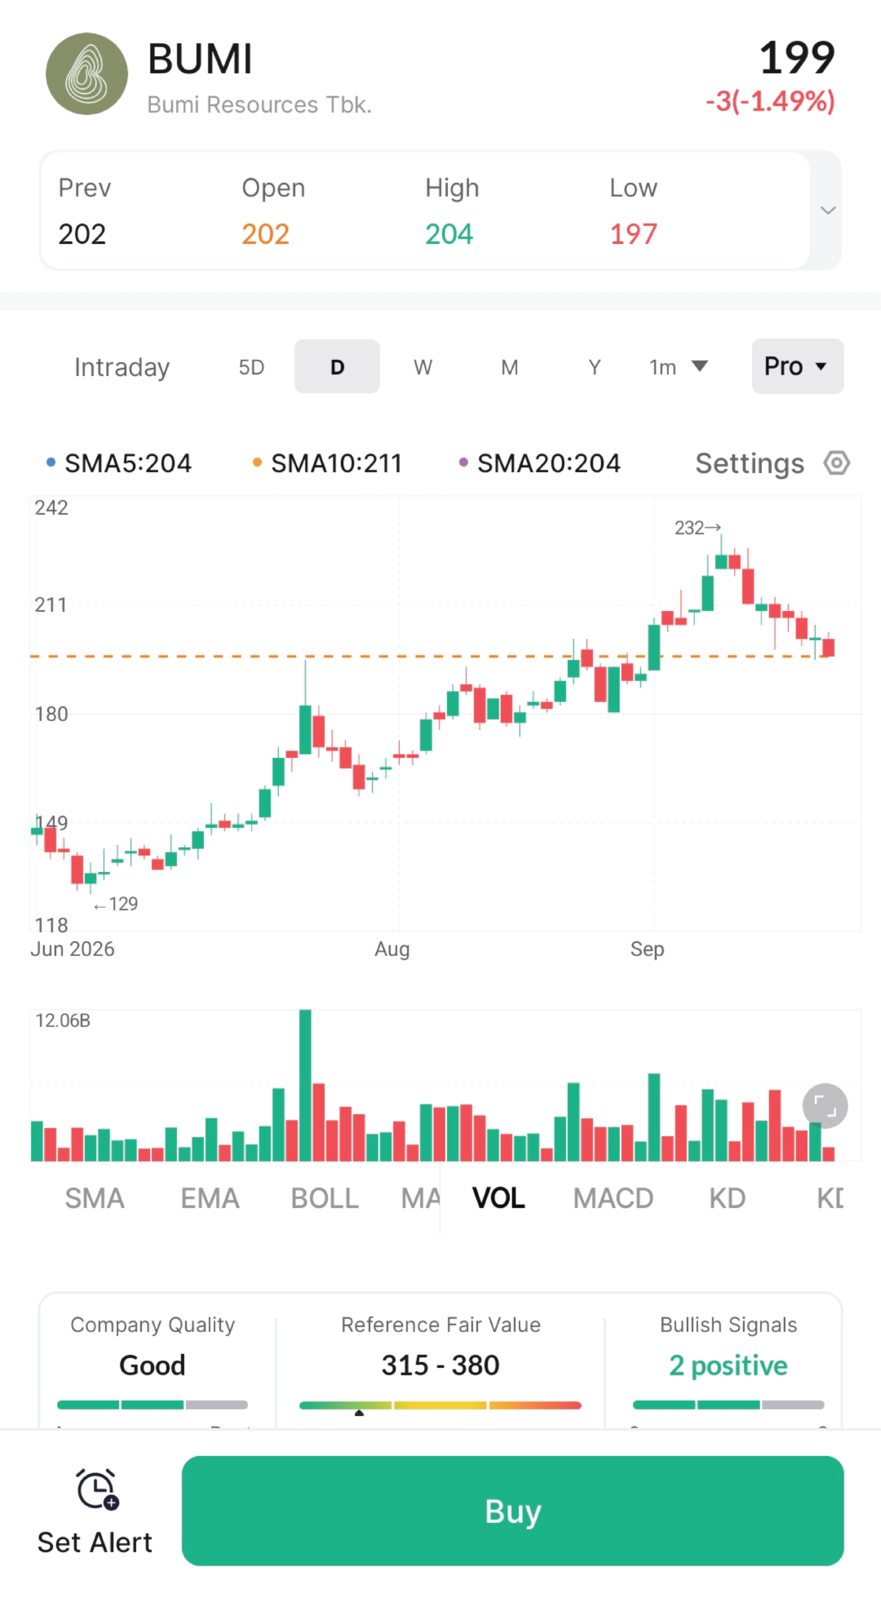
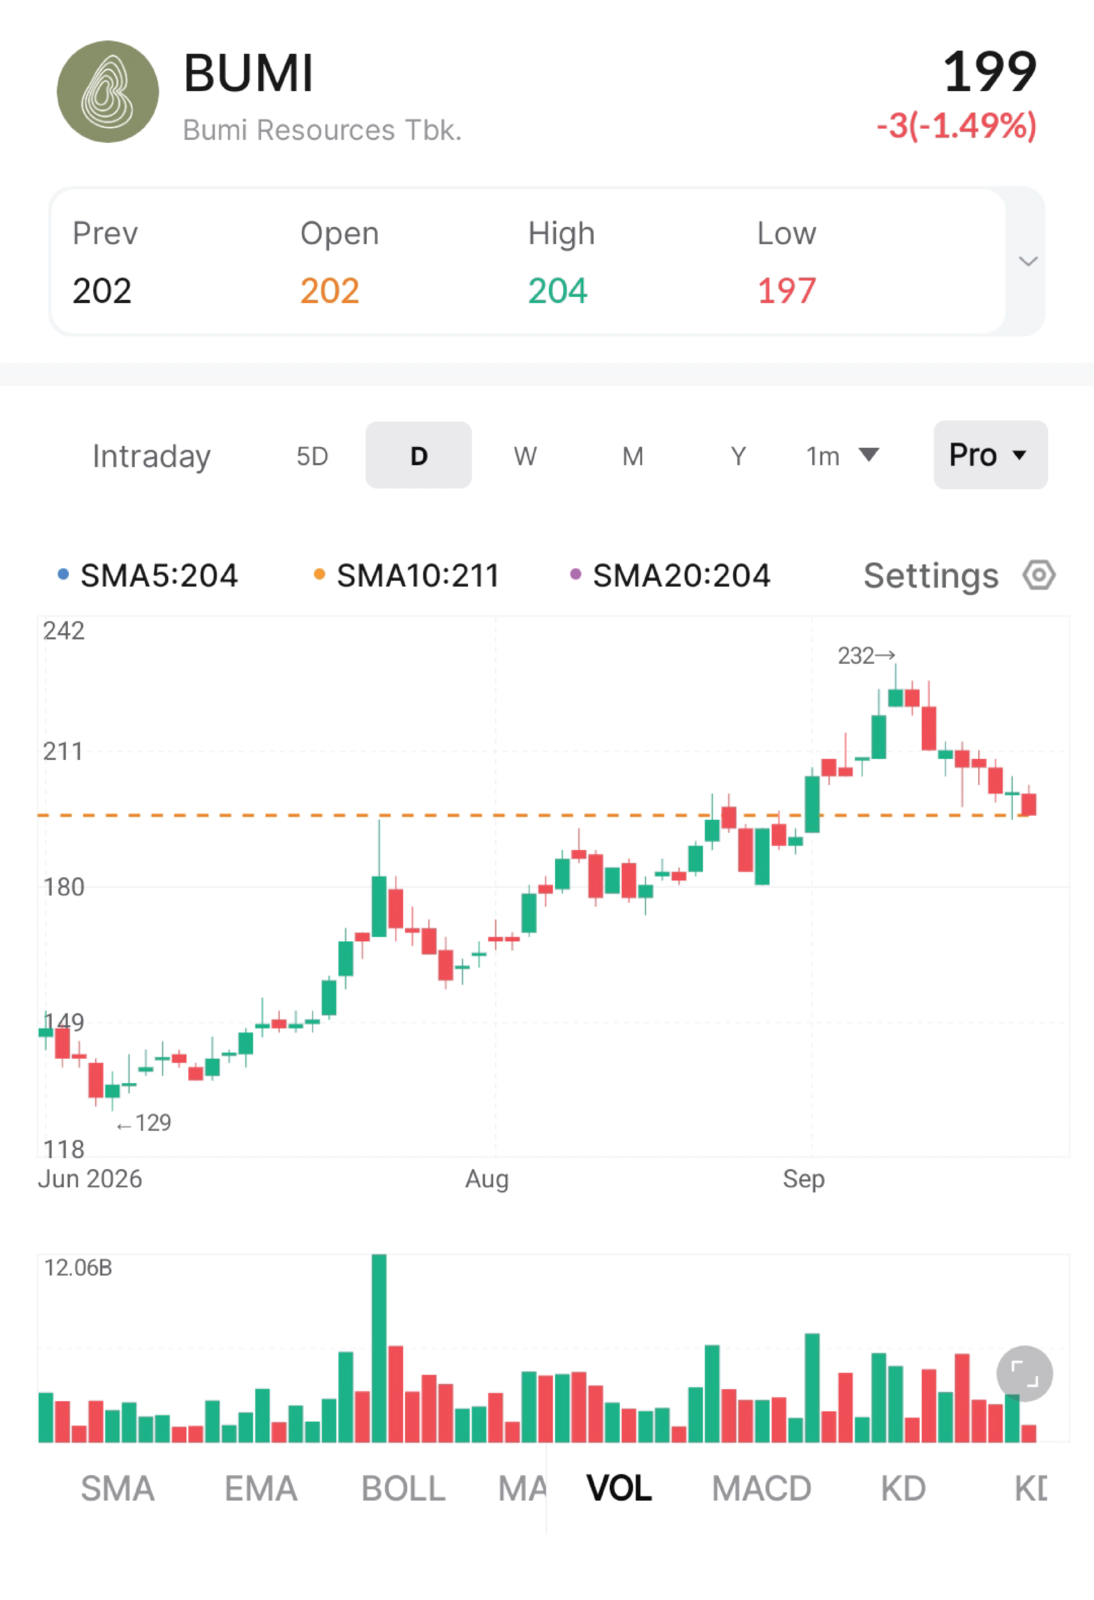
022 SC16: crop the action bar off 01 and 02, and re-fit around it
Simon: "2 image di tengah jadi kecil banget, coba crop bagian ini", and the
crop has to be identical on both — "berapapun yang kamu crop di image 01,
crop juga dengan jumlah yang sama di 02". They are the same app view at two
timeframes, so any difference in framing between them would read as a
difference in the DATA.

Both lose the bottom 1446 of their 7417: the Company Quality strip and the
action bar under it. The cut is on the white gap ABOVE that strip's own card
border, so no edge is sliced — and the two card borders were checked to be
on the same row first, 1291 in both, which is what makes one cut line honest
for both.

Their ratio goes 0.55 → 0.68, so at the same height they are 27% wider. The
height then went 520 → 532, which is everything that was left: below, the
question box needs 50 of air, 92 of box and half a corner block under a pair
centred on 540, against the band at 972; beside, the left column's outer edge
has to clear the safe area at 96 at the new ratio. That leaves 9px under the
box and 21px outside the column.

The volume mark was re-measured on the cropped file — x39..1036, y1255..1442
of 1094x1600. Storing it as fractions is exactly what made that a
re-measurement rather than a silent drift.

It also takes the "Buy" button off, which was the one thing in this scene
sitting against rule 7. That is a consequence, not the reason.

diff --git a/src/episodes/022-ta-mistakes/data/layout.ts b/src/episodes/022-ta-mistakes/data/layout.ts
@@ -1830,22 +1830,43 @@ const PREP_TOP = theme.stage.active.y + (PREP_STRIP - PREP_LEADING * 2) / 2;
  * direction, and it is the pair that was named.
  */
 const PREP_ART = {
-  "01": { name: "01 Day", src: "art/prep/01-day.png", ratio: 881 / 1600 },
-  "02": { name: "02 Week", src: "art/prep/02-week.png", ratio: 881 / 1600 },
+  /**
+   * ⚠ 01 AND 02 ARE CROPPED, AND BY EXACTLY THE SAME AMOUNT — Simon: "berapapun
+   * yang kamu crop di image 01, crop juga dengan jumlah yang sama di 02". The
+   * two screens are the same app view at two timeframes, so any difference in
+   * framing between them would read as a difference in the DATA. Both lose the
+   * bottom 1446 of their 7417: the Company Quality strip and the action bar
+   * under it, cut on the white gap above that strip's own card border so no
+   * edge is sliced. Their card boundaries were checked to be on the same row
+   * first — 1291 in both — which is what makes one cut line honest for both.
+   *
+   * ⚠ IT ALSO TAKES THE "Buy" BUTTON OFF, which was the one thing in this scene
+   * that sat against rule 7. That is a consequence, not the reason.
+   */
+  "01": { name: "01 Day", src: "art/prep/01-day.png", ratio: 1094 / 1600 },
+  "02": { name: "02 Week", src: "art/prep/02-week.png", ratio: 1094 / 1600 },
   "03": { name: "03 Trend", src: "art/prep/03-trend.png", ratio: 1600 / 949 },
   "04": { name: "04 Setup", src: "art/prep/04-setup.png", ratio: 1279 / 1600 },
   "05": { name: "05 Level", src: "art/prep/05-level.png", ratio: 1600 / 906 },
 } as const;
 
 /**
- * ⚠ 520, DOWN FROM 580, AND THE QUESTION BOX IS WHY. Simon added a dashed box
- * "di bawah 5 file ini" at 14580, and the pair has to stay centred on the
- * screen — his first instruction about this scene. Those two together fix the
- * height: the box needs 92 of its own plus its corner blocks and 50 of air, and
- * 540 + H/2 + 50 + 92 + 15 has to clear the subtitle band at 972. The screens
- * lose a tenth of their size for it, which is the cheaper of the two.
+ * ⚠ THE HEIGHT IS PINNED FROM BOTH SIDES AND 532 IS WHAT IS LEFT.
+ *
+ * Below: Simon's dashed box goes "di bawah 5 file ini" and the pair has to stay
+ * centred on the screen, so 540 + H/2 + 50 of air + 92 of box + half a corner
+ * block has to clear the subtitle band at 972 — H ≤ 550.
+ *
+ * Beside: the middle pair is centred on the frame and the two columns hang off
+ * it, so the left column's outer edge has to clear the safe area at 96 —
+ * H ≤ 545 at 01 and 02's cropped ratio.
+ *
+ * 532 leaves 9px under the box and 21px outside the left column. It was 520
+ * while 01 and 02 still carried their action bar; the crop is what bought the
+ * rest — those two are 27% wider now at the same height, which is what Simon
+ * meant by "2 image di tengah jadi kecil banget".
  */
-const PREP_H = 520;
+const PREP_H = 532;
 const PREP_GAP = 32;
 /**
  * The left column's width, solved so its two panels stack to exactly PREP_H.
@@ -1877,19 +1898,20 @@ const PREP_SOLO_X = theme.canvas.width / 2 - PREP_TALL("01") / 2;
 
 /**
  * ⚠ THE VOLUME BARS INSIDE 01, AS FRACTIONS OF THE PICTURE. Measured off
- * public/art/prep/01-day.png itself — the coloured pixels run x31..834 and
- * y1010..1161 of its 881×1600 — so the mark follows the screenshot if the
- * screenshot is ever re-exported at another size. A typed rect would not.
+ * public/art/prep/01-day.png itself — the coloured pixels run x39..1036 and
+ * y1255..1442 of its 1094×1600 — so the mark follows the screenshot rather
+ * than a typed rect. It was re-measured when the crop moved it, which is
+ * exactly the change a typed rect would have survived silently.
  *
  * ⚠ AND THE PAD IS SMALL ON PURPOSE. The bars already span 91% of the picture;
  * any more air and the box stops reading as a mark on the volume panel and
  * starts reading as a box around the whole phone.
  */
 const PREP_VOL = {
-  x1: 31 / 881,
-  x2: 834 / 881,
-  y1: 1010 / 1600,
-  y2: 1161 / 1600,
+  x1: 39 / 1094,
+  x2: 1036 / 1094,
+  y1: 1255 / 1600,
+  y2: 1442 / 1600,
   pad: 8,
 } as const;
 
